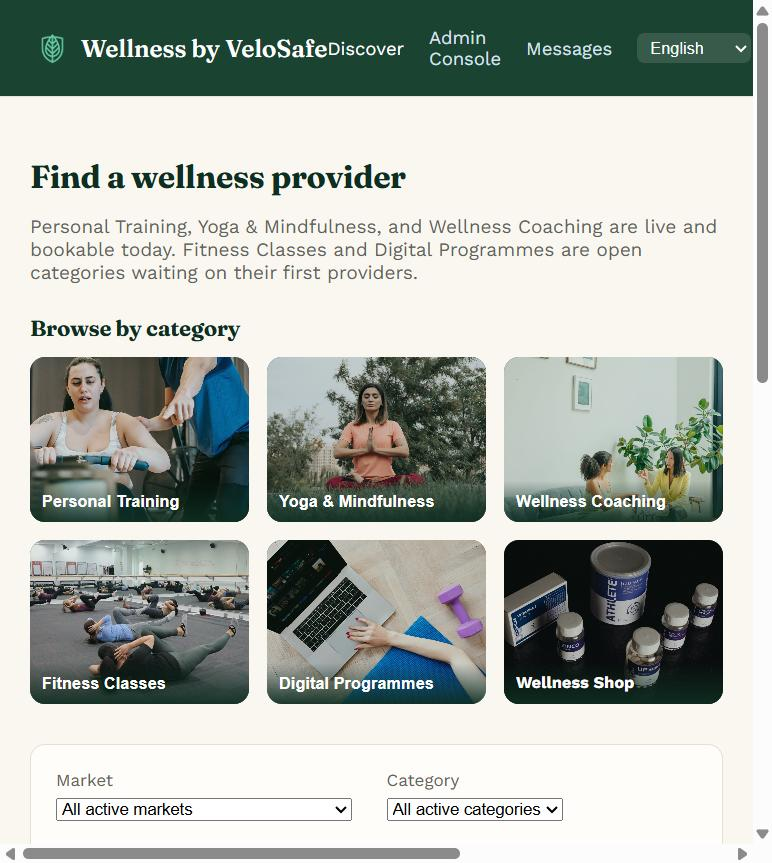
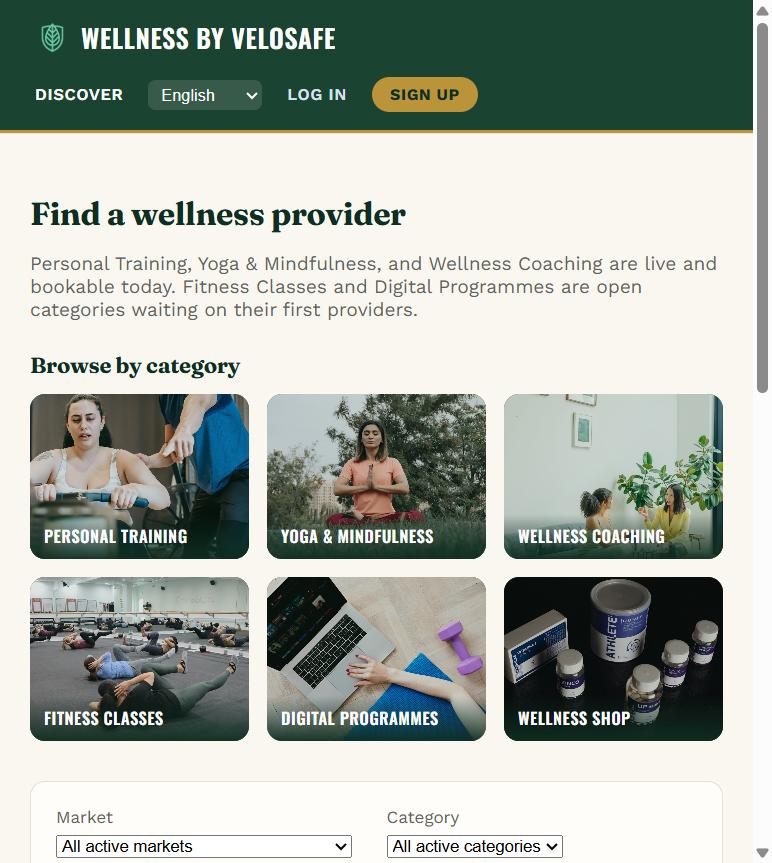
Update README screenshots for the redesign; fix navbar overflow when logged in
- docs/screenshots/homepage.jpg and discover.jpg now reflect the bolder, editorial
  redesign (previous versions predated it).
- Fixed a real regression from that redesign: .navbar nav didn't wrap, so a logged-in
  user with more nav items (Admin Console, System Health, Messages, bell) could overflow
  the viewport horizontally at tablet/narrow widths, since the bolder uppercase nav text
  takes more space than before. Added flex-wrap to .navbar nav so items wrap to a second
  line instead. Verified scrollWidth === clientWidth at 618px, 768px, and 1440px viewports
  while logged in as admin.

diff --git a/frontend/src/index.css b/frontend/src/index.css
@@ -87,8 +87,11 @@ h1, h2, h3, .page-title, .brand {
 
 .navbar nav {
   display: flex;
+  flex-wrap: wrap;
+  row-gap: 0.5rem;
   gap: 1.25rem;
   align-items: center;
+  justify-content: flex-end;
   font-size: 0.92rem;
 }
 
